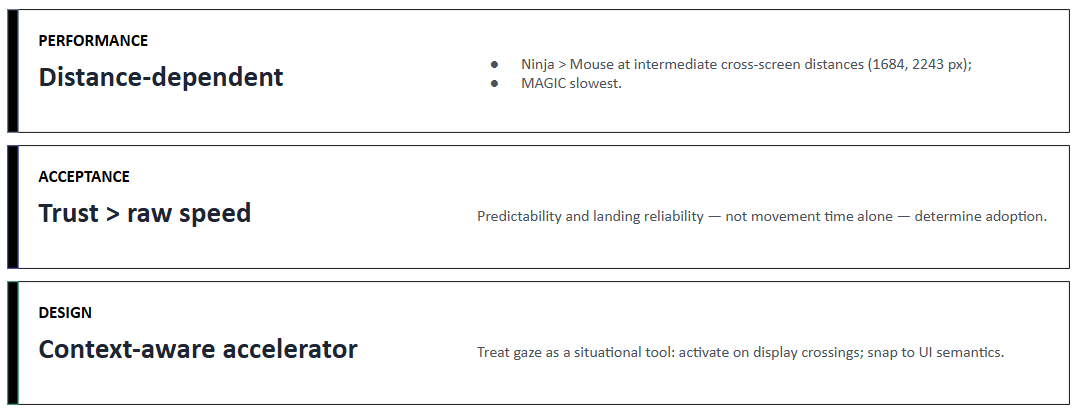
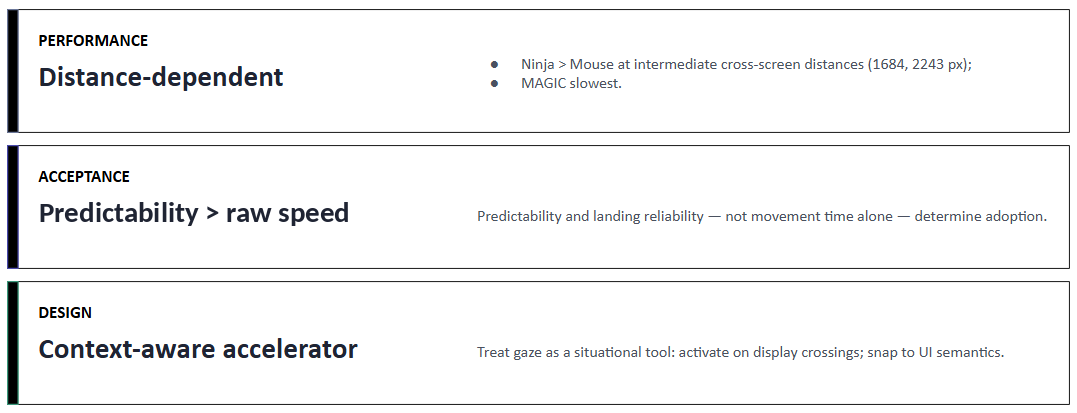
Gaze case study: predictability over trust, grade, core skills, cleanups
- "Trust" was not measured in the thesis and is gone from the master CV.
  Tagline, card outcome, About, Step 6 ("Predictability Beats Speed"),
  its insight, Implications, the conclusion caption/alt and the CV
  highlight in data.json now name what was measured and found:
  predictability, cursor control, SUS. EN and DE.
- conclusion.png: "Trust > raw speed" → "Predictability > raw speed";
  experimental_design.png: "Six Distance" → "Six Distances";
  design_implications.png (unused on the site): "element,," → "element,".
  Patched in place in Carlito (metric match for the slides' Calibri).
- Timeline: "· grade 1.5" / "· Note 1,5" (CV data: Thesis 1.5).
- coreTags (6) lead the hero and Projects list: Mixed-Methods Research,
  Experimental Design, Eye-Tracking, TypeScript, Python, Statistical
  Analysis (R). React stays a separate tag behind "+7 more" so every pill
  still links to its /tags page. "Statistical Analysis (ANOVA)" renamed
  to "(R)"; the ANOVA step already says "run in R".
- Prose: `quote: false` turns the margin note off. Gaze Challenge,
  Solution and Methodology use it — the lifted lead sentence repeated the
  paragraph word for word. Other projects unchanged; test added.

Claude-Session: https://claude.ai/code/session_01TaUxVdEA1tDyvzUq3iKVrH

Changed region(s): [[0.0306, 0.4939, 0.337, 0.5521]]

diff --git a/src/projects/gaze-assisted-input/gaze-assisted-input.data.js b/src/projects/gaze-assisted-input/gaze-assisted-input.data.js
@@ -21,7 +21,7 @@ export const projectData = {
   // was submitted 04/2026 and defended 05/2026. data.json's role entry runs
   // to 05/2026 (through the defence); this states the split so the two never
   // read as a contradiction. (F1, confirmed by the owner 2026-08-24.)
-  timeline: { en: "10/2025 – 04/2026 · defence 05/2026", de: "10/2025 – 04/2026 · Verteidigung 05/2026" },
+  timeline: { en: "10/2025 – 04/2026 · defence 05/2026 · grade 1.5", de: "10/2025 – 04/2026 · Verteidigung 05/2026 · Note 1,5" },
 
   heroImage: thumbnailImg,
   heroIsGenerated: true, // hero generated with Google Gemini — renders the credit
@@ -191,24 +191,29 @@ export const projectData = {
     {
       phase: "deliver",
       type: { en: "SUS + Thematic Analysis", de: "SUS + thematische Analyse" },
-      title: { en: "Trust Beats Speed", de: "Vertrauen schlägt Tempo" },
+      title: { en: "Predictability Beats Speed", de: "Vorhersagbarkeit schlägt Tempo" },
       annotation: {
         en: "SUS after each block (N=30): Mouse 85.2, Ninja 72.6, MAGIC 55.9 (Friedman p < .001) — MAGIC the only technique below the 68-point acceptability threshold. Reflexive thematic analysis of open feedback surfaced seven primary themes, from the 'transport advantage' (23/30) to the 'landing penalty' (22/30).",
         de: "SUS nach jedem Block (N=30): Maus 85,2, Ninja 72,6, MAGIC 55,9 (Friedman p < .001) — MAGIC als einzige Technik unter der Akzeptanzschwelle von 68 Punkten. Die reflexive thematische Analyse des offenen Feedbacks ergab sieben Hauptthemen, vom „Transportvorteil“ (23/30) bis zur „Landestrafe“ (22/30).",
       },
       insight: {
-        en: "60% preferred Ninja despite the mouse's higher SUS — participants framed it as 'best of both worlds.' Predictability and trust, not raw speed, determined acceptance.",
-        de: "60 % bevorzugten Ninja trotz des höheren SUS-Werts der Maus — Teilnehmende beschrieben es als „das Beste aus beiden Welten“. Vorhersagbarkeit und Vertrauen, nicht reine Geschwindigkeit, entschieden über die Akzeptanz.",
+        en: "60% preferred Ninja despite the mouse's higher SUS — participants framed it as 'best of both worlds.' Predictability and cursor control, not raw speed, determined acceptance.",
+        de: "60 % bevorzugten Ninja trotz des höheren SUS-Werts der Maus — Teilnehmende beschrieben es als „das Beste aus beiden Welten“. Vorhersagbarkeit und Kontrolle über den Cursor, nicht reine Geschwindigkeit, entschieden über die Akzeptanz.",
       },
       imagePath: null,
     },
   ],
 
   about: {
-    en: "A Master's thesis asking whether eye gaze can make pointing across two screens faster without costing users their trust in the cursor. I built the entire experiment software in TypeScript, connected it to a head-mounted eye tracker, and compared two gaze-assisted techniques — MAGIC Pointing and Ninja Cursors — against a plain mouse with 30 participants.",
-    de: "Eine Masterarbeit zur Frage, ob Blicksteuerung das Zeigen über zwei Bildschirme hinweg beschleunigen kann, ohne das Vertrauen der Nutzer:innen in den Cursor zu kosten. Ich habe die komplette Experimentalsoftware in TypeScript entwickelt, sie an einen kopfgetragenen Eyetracker angebunden und zwei blickgestützte Techniken — MAGIC Pointing und Ninja Cursors — mit 30 Teilnehmenden gegen eine gewöhnliche Maus verglichen.",
+    en: "A Master's thesis asking whether eye gaze can make pointing across two screens faster without costing users predictability and cursor control. I built the entire experiment software in TypeScript, connected it to a head-mounted eye tracker, and compared two gaze-assisted techniques — MAGIC Pointing and Ninja Cursors — against a plain mouse with 30 participants.",
+    de: "Eine Masterarbeit zur Frage, ob Blicksteuerung das Zeigen über zwei Bildschirme hinweg beschleunigen kann, ohne Vorhersagbarkeit und Kontrolle über den Cursor zu kosten. Ich habe die komplette Experimentalsoftware in TypeScript entwickelt, sie an einen kopfgetragenen Eyetracker angebunden und zwei blickgestützte Techniken — MAGIC Pointing und Ninja Cursors — mit 30 Teilnehmenden gegen eine gewöhnliche Maus verglichen.",
   },
 
+  // No margin notes in 03–05: with no explicit quote the template lifts each
+  // section's first sentence into the rail, repeating the body word for word.
+  challengeQuote: false,
+  solutionQuote: false,
+  methodologyQuote: false,
   challenge: {
     en: "Multi-display workstations are everywhere, yet the mouse alone makes cross-display pointing costly: long pointer transits, cursor re-acquisition after bezel crossings, and attentional switches between screens. Prior work proposed gaze-assisted hybrids, but few controlled studies had compared MAGIC Pointing and Ninja Cursors against a mouse baseline in a dual-display setting — a comparison explicitly called for as future work by Räihä & Špakov (2009).",
     de: "Multi-Display-Arbeitsplätze sind weit verbreitet, doch allein die Maus macht bildschirmübergreifendes Zeigen teuer: lange Zeigerwege, erneutes Auffinden des Cursors nach Rahmenübergängen und Aufmerksamkeitswechsel zwischen Bildschirmen. Frühere Arbeiten schlugen blickunterstützte Hybride vor, doch nur wenige kontrollierte Studien hatten MAGIC Pointing und Ninja Cursors gegen eine Maus-Baseline in einer Dual-Display-Umgebung verglichen — ein Vergleich, der von Räihä & Špakov (2009) explizit als zukünftige Arbeit gefordert wurde.",
@@ -245,8 +250,8 @@ export const projectData = {
   ],
 
   implications: {
-    en: "Gaze assistance should be a context-aware accelerator, not an always-on replacement. Three design directions follow from the data: adaptive activation using the screen boundary itself as the trigger, semantic snapping toward UI elements to fix MAGIC's landing penalty, and stronger visual differentiation of the active cursor in multi-cursor designs. For UI engineers, predictability and system trust — not raw speed alone — determine whether users adopt a novel interaction pattern.",
-    de: "Blickunterstützung sollte ein kontextsensitiver Beschleuniger sein, kein dauerhafter Ersatz. Aus den Daten folgen drei Gestaltungsrichtungen: adaptive Aktivierung mit der Bildschirmgrenze selbst als Auslöser, semantisches Einrasten an UI-Elementen zur Behebung von MAGICs Landestrafe, und eine stärkere visuelle Differenzierung des aktiven Cursors bei Multi-Cursor-Designs. Für UI-Entwickler:innen entscheiden Vorhersagbarkeit und Systemvertrauen — nicht reine Geschwindigkeit —, ob Nutzer:innen ein neues Interaktionsmuster annehmen.",
+    en: "Gaze assistance should be a context-aware accelerator, not an always-on replacement. Three design directions follow from the data: adaptive activation using the screen boundary itself as the trigger, semantic snapping toward UI elements to fix MAGIC's landing penalty, and stronger visual differentiation of the active cursor in multi-cursor designs. For UI engineers, predictability and cursor control — not raw speed alone — determine whether users adopt a novel interaction pattern.",
+    de: "Blickunterstützung sollte ein kontextsensitiver Beschleuniger sein, kein dauerhafter Ersatz. Aus den Daten folgen drei Gestaltungsrichtungen: adaptive Aktivierung mit der Bildschirmgrenze selbst als Auslöser, semantisches Einrasten an UI-Elementen zur Behebung von MAGICs Landestrafe, und eine stärkere visuelle Differenzierung des aktiven Cursors bei Multi-Cursor-Designs. Für UI-Entwickler:innen entscheiden Vorhersagbarkeit und Kontrolle über den Cursor — nicht reine Geschwindigkeit —, ob Nutzer:innen ein neues Interaktionsmuster annehmen.",
   },
   conclusion: [
       {
@@ -254,12 +259,12 @@ export const projectData = {
         src: conclusion,
         poster: thumbnailImg,
         alt: {
-          en: "Summary slide with three takeaways — performance: distance-dependent, Ninja beats the mouse at intermediate cross-screen distances; acceptance: trust outweighs raw speed; design: treat gaze as a context-aware accelerator",
-          de: "Zusammenfassungsfolie mit drei Kernaussagen — Leistung: distanzabhängig, Ninja schlägt die Maus bei mittleren bildschirmübergreifenden Distanzen; Akzeptanz: Vertrauen wiegt mehr als reine Geschwindigkeit; Design: Blick als kontextsensitiven Beschleuniger behandeln",
+          en: "Summary slide with three takeaways — performance: distance-dependent, Ninja beats the mouse at intermediate cross-screen distances; acceptance: predictability outweighs raw speed; design: treat gaze as a context-aware accelerator",
+          de: "Zusammenfassungsfolie mit drei Kernaussagen — Leistung: distanzabhängig, Ninja schlägt die Maus bei mittleren bildschirmübergreifenden Distanzen; Akzeptanz: Vorhersagbarkeit wiegt mehr als reine Geschwindigkeit; Design: Blick als kontextsensitiven Beschleuniger behandeln",
         },
         caption: {
-          en: "Three takeaways: performance is distance-dependent, trust beats raw speed, and gaze belongs in a context-aware accelerator role",
-          de: "Drei Kernaussagen: Leistung ist distanzabhängig, Vertrauen schlägt reine Geschwindigkeit, und Blicksteuerung gehört in die Rolle eines kontextsensitiven Beschleunigers",
+          en: "Three takeaways: performance is distance-dependent, predictability beats raw speed, and gaze belongs in a context-aware accelerator role",
+          de: "Drei Kernaussagen: Leistung ist distanzabhängig, Vorhersagbarkeit schlägt reine Geschwindigkeit, und Blicksteuerung gehört in die Rolle eines kontextsensitiven Beschleunigers",
         },
         span: 2,
         className: "w-full h-auto block"
@@ -308,10 +313,10 @@ export const projectData = {
     { tag: "Mixed-Methods Research", evidence: "methodology: \"A two-phase mixed-methods design. Phase I:... Phase II:...\"", status: "evidenced" },
     { tag: "Experimental Design", evidence: "process:A 3×2×6 Within-Subjects Protocol", status: "evidenced" },
     { tag: "Semi-Structured Interviews", evidence: "process:Characterising Real Multi-Display Work — 20 participants in ~30-minute semi-structured sessions on screen roles, input preferences, and cross-display pain points", status: "evidenced" },
-    { tag: "Thematic Analysis", evidence: "process:Trust Beats Speed — seven themes coded from open feedback (N=30), from the \"transport advantage\" (23/30) to the \"landing penalty\" (22/30); methods: \"Reflexive Thematic Analysis\"", status: "evidenced" },
+    { tag: "Thematic Analysis", evidence: "process:Predictability Beats Speed — seven themes coded from open feedback (N=30), from the \"transport advantage\" (23/30) to the \"landing penalty\" (22/30); methods: \"Reflexive Thematic Analysis\"", status: "evidenced" },
     { tag: "Quantitative UX Research", evidence: "process:RM-ANOVA: A Distance-Dependent Crossover — N=30 within-subjects experiment", status: "evidenced" },
-    { tag: "Statistical Analysis (ANOVA)", evidence: "process:RM-ANOVA: A Distance-Dependent Crossover — repeated-measures ANOVA, η²ₚ=.690", status: "evidenced" },
-    { tag: "SUS Evaluation", evidence: "process:Trust Beats Speed — SUS after each block (N=30)", status: "evidenced" },
+    { tag: "Statistical Analysis (R)", evidence: "process:RM-ANOVA: A Distance-Dependent Crossover — repeated-measures ANOVA run in R, η²ₚ=.690", status: "evidenced" },
+    { tag: "SUS Evaluation", evidence: "process:Predictability Beats Speed — SUS after each block (N=30)", status: "evidenced" },
     { tag: "Figma", evidence: "process:Characterising Real Multi-Display Work — participants recreated their workstation on a shared Figma canvas; methodology: \"a Figma-based workspace visualisation task\"", status: "evidenced" },
   ],
 };

diff --git a/src/projects/gaze-assisted-input/card.js b/src/projects/gaze-assisted-input/card.js
@@ -21,8 +21,8 @@ export default {
     de: "Eine vergleichende Evaluation von MAGIC Pointing, Ninja Cursors und einer Maus-Baseline",
   },
   tagline: {
-    en: "Can gaze make cross-screen pointing faster — without sacrificing user trust?",
-    de: "Kann Blicksteuerung bildschirmübergreifendes Zeigen beschleunigen — ohne das Vertrauen der Nutzer:innen zu kosten?",
+    en: "Can gaze make cross-screen pointing faster — without sacrificing predictability and control?",
+    de: "Kann Blicksteuerung bildschirmübergreifendes Zeigen beschleunigen — ohne Vorhersagbarkeit und Kontrolle zu kosten?",
   },
   role: {
     en: "UX Engineer (Master's Thesis)",
@@ -34,9 +34,14 @@ export default {
     de: "Masterarbeit",
   },
   cardTags: ["Experimental Design", "Mixed-Methods Research", "TypeScript", "Eye-Tracking"],
+  // The hero and the Projects list lead with these core skills; the rest sit
+  // behind "+N more" (ProjectHeader) and stay in the DOM. React stays a tag of
+  // its own there: each pill links to /tags/<skill>, so a combined
+  // "TypeScript & React" pill would link to nothing.
+  coreTags: ["Mixed-Methods Research", "Experimental Design", "Eye-Tracking", "TypeScript", "Python", "Statistical Analysis (R)"],
   cardOutcome: {
-    en: "Gaze wins over long cross-screen distances and loses over short ones; trust in the cursor decided preference.",
-    de: "Blicksteuerung gewinnt über große bildschirmübergreifende Distanzen und verliert über kurze; entschieden hat das Vertrauen in den Cursor.",
+    en: "Gaze wins over long cross-screen distances and loses over short ones; predictability, not speed, decided preference.",
+    de: "Blicksteuerung gewinnt über große bildschirmübergreifende Distanzen und verliert über kurze; entschieden hat die Vorhersagbarkeit, nicht das Tempo.",
   },
   // Compact proof points for the homepage card — scale, rigour, result.
   // Optional: cards without cardStats render exactly as before.
@@ -48,5 +53,5 @@ export default {
   cardImage: cardLargeTargetPanel,
   thumbnail: thumbnailImg,
   thumbnailWebp,
-  tags: ["TypeScript", "React", "Python", "Eye-Tracking", "Real-Time API Integration", "Mixed-Methods Research", "Experimental Design", "Semi-Structured Interviews", "Thematic Analysis", "Quantitative UX Research", "Statistical Analysis (ANOVA)", "SUS Evaluation", "Figma"],
+  tags: ["TypeScript", "React", "Python", "Eye-Tracking", "Real-Time API Integration", "Mixed-Methods Research", "Experimental Design", "Semi-Structured Interviews", "Thematic Analysis", "Quantitative UX Research", "Statistical Analysis (R)", "SUS Evaluation", "Figma"],
 };

diff --git a/src/test/prose-margin-note.test.jsx b/src/test/prose-margin-note.test.jsx
@@ -1,0 +1,34 @@
+import { describe, it, expect } from "vitest";
+import { renderWithProviders } from "./renderWithProviders";
+import ProjectTemplate from "../projects/ProjectTemplate";
+import { projectData as gazeData } from "../projects/gaze-assisted-input/gaze-assisted-input.data";
+
+// With no explicit quote, Prose lifts a section's first sentence into the
+// margin rail. The gaze case study sets `quote: false` for Challenge,
+// Solution and Methodology, because that lifted sentence repeated the
+// paragraph beside it word for word.
+const firstSentence = (text) => text.match(/^.*?[.!?](?=\s|$)/)[0].trim();
+
+describe("Prose margin note", () => {
+  it("is off for gaze Challenge, Solution and Methodology", () => {
+    const { container } = renderWithProviders(<ProjectTemplate meta={gazeData} />);
+    for (const id of ["challenge", "solution", "methodology"]) {
+      const section = container.querySelector(`section#${id}`);
+      const lead = firstSentence(gazeData[id].en);
+      const hits = [...section.querySelectorAll("*")].filter(
+        (el) => el.childElementCount === 0 && el.textContent.trim() === lead
+      );
+      expect(hits, `${id}: lead sentence repeated in the margin`).toHaveLength(0);
+    }
+  });
+
+  it("still lifts the lead sentence when a project sets no quote", () => {
+    const meta = { ...gazeData, challengeQuote: undefined };
+    const { container } = renderWithProviders(<ProjectTemplate meta={meta} />);
+    const lead = firstSentence(gazeData.challenge.en);
+    const hits = [...container.querySelectorAll("section#challenge *")].filter(
+      (el) => el.childElementCount === 0 && el.textContent.trim() === lead
+    );
+    expect(hits.length).toBeGreaterThan(0);
+  });
+});

diff --git a/src/projects/template/Prose.jsx b/src/projects/template/Prose.jsx
@@ -14,7 +14,12 @@ function PullQuote({ text }) {
 // Long-form prose wrapper: caps the reading measure, and — for the three
 // sections that get one — sets a lead-sentence pull-quote beside it in the
 // right rail once the viewport is wide enough to hold three tracks.
-export function Prose({ text, quote, rail, children }) {
+export function Prose({ text, quote, rail: railProp, children }) {
+  // `quote: false` in the data turns the margin note off: the lifted lead
+  // sentence below repeats the paragraph's own first line word for word,
+  // which reads as clutter where the section has no distinct takeaway
+  // (gaze case study, 2026-11-25). The prose then takes the full column.
+  const rail = railProp && quote !== false;
   // Older data files set no explicit `quote` — lift the lead sentence instead.
   let resolvedQuote = quote;
   if (!resolvedQuote && typeof text === "string" && rail) {
